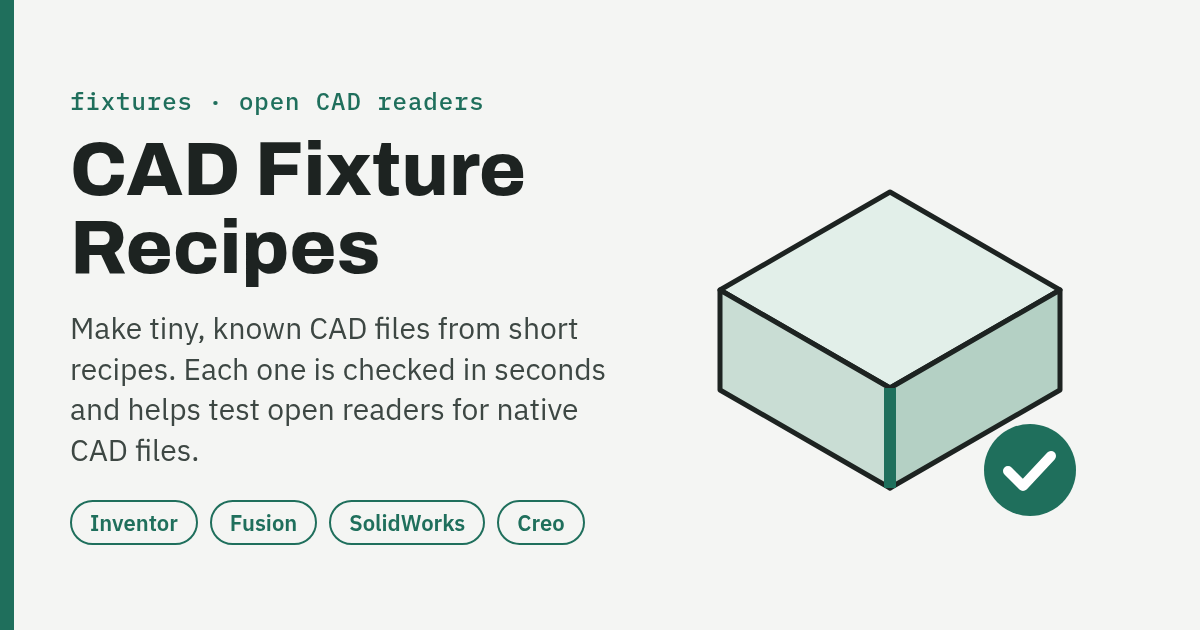
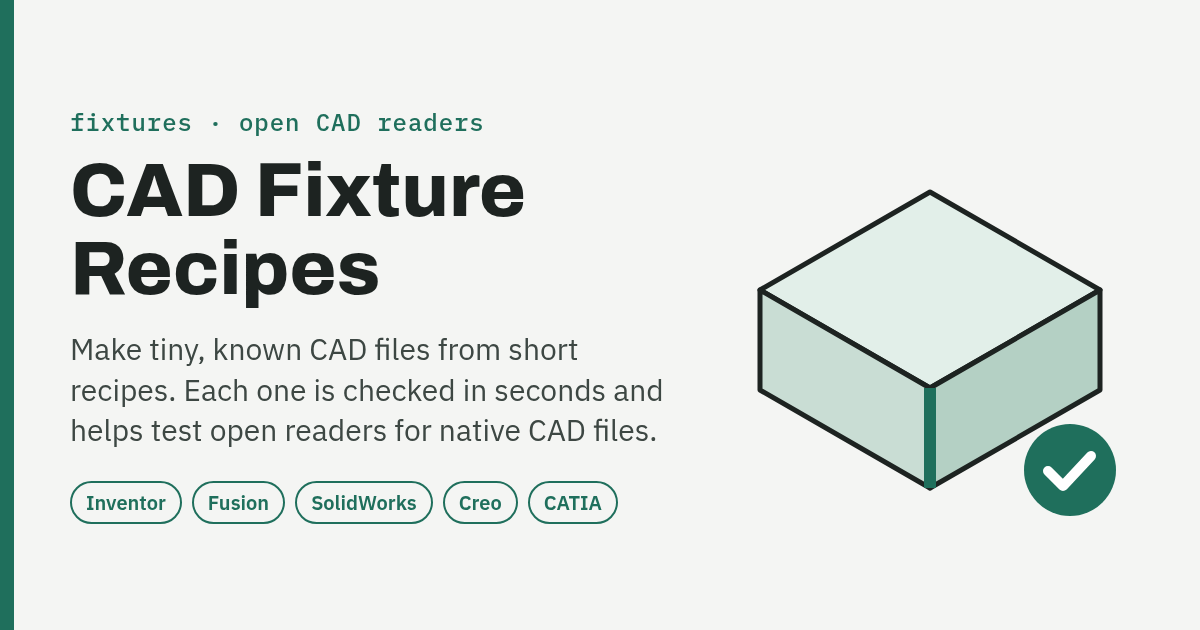
List CATIA among the programs (#3)

Changed region(s): [[0.0617, 0.1508, 0.555, 0.8746], [0.5858, 0.3016, 0.9558, 0.8143]]

diff --git a/docs/index.html b/docs/index.html
@@ -14,12 +14,12 @@
 <meta property="og:image:type" content="image/png">
 <meta property="og:image:width" content="1200">
 <meta property="og:image:height" content="630">
-<meta property="og:image:alt" content="A small block with a check mark, the words CAD Fixture Recipes, and the programs Inventor, Fusion, SolidWorks, and Creo">
+<meta property="og:image:alt" content="A small block with a check mark, the words CAD Fixture Recipes, and the programs Inventor, Fusion, SolidWorks, Creo, and CATIA">
 <meta name="twitter:card" content="summary_large_image">
 <meta name="twitter:title" content="CAD Fixture Recipes">
 <meta name="twitter:description" content="Small, known CAD test files made by volunteers from short recipes, to check open CAD readers against ground truth.">
 <meta name="twitter:image" content="https://dutchman-cad.github.io/fixtures/og.png">
-<meta name="twitter:image:alt" content="A small block with a check mark, the words CAD Fixture Recipes, and the programs Inventor, Fusion, SolidWorks, and Creo">
+<meta name="twitter:image:alt" content="A small block with a check mark, the words CAD Fixture Recipes, and the programs Inventor, Fusion, SolidWorks, Creo, and CATIA">
 <meta name="theme-color" content="#1f6f5c">
 <style>
 :root{--bg:#f6f7f5;--card:#fff;--ink:#16201c;--muted:#5b6762;--line:#dde3df;--teal:#2f6b5c;--amber:#c08a2e}
@@ -75,7 +75,7 @@ footer{margin-top:48px;padding-top:16px;border-top:1px solid var(--line);color:v
 </ul>
 
 <h2>Programs</h2>
-<div class="apps"><span class="app">Inventor</span><span class="app">Fusion</span><span class="app">SolidWorks</span><span class="app">Creo</span></div>
+<div class="apps"><span class="app">Inventor</span><span class="app">Fusion</span><span class="app">SolidWorks</span><span class="app">Creo</span><span class="app">CATIA</span></div>
 <p>The recipes work in any year or release. Each year stores files a little differently, so a year nobody has covered yet is especially welcome; the <a href="https://fixtures.tailb5574c.ts.net/">portal</a> shows which ones are wanted. Fusion updates every month, so several sets from different people are worth more than one.</p>
 <p>Use something else? Tell us in <a href="https://discord.gg/yTcseBEdeu">Discord</a> which program and year, and we'll add recipes for it.</p>
 <p>The latest recipe booklet (PDF) is linked from the portal. Already helping and lost your link? Ask in Discord for a new one.</p>

diff --git a/README.md b/README.md
@@ -20,7 +20,7 @@ We're building open, clean-room readers for native CAD files ([cadmpeg](https://
 
 ## Programs
 
-The recipes are written for **Inventor**, **Fusion**, **SolidWorks**, and **Creo**, in any year or release. Each year stores files a little differently, so a year nobody has covered yet is especially welcome; the portal shows which ones are wanted. Fusion updates every month, so several sets from different people are worth more than one.
+The recipes are written for **Inventor**, **Fusion**, **SolidWorks**, **Creo**, and **CATIA**, in any year or release. Each year stores files a little differently, so a year nobody has covered yet is especially welcome; the portal shows which ones are wanted. Fusion updates every month, so several sets from different people are worth more than one.
 
 Use something else? Tell us in [Discord](https://discord.gg/yTcseBEdeu) which program and year, and we'll add recipes for it.
 
